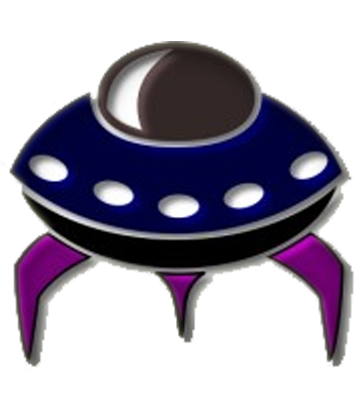
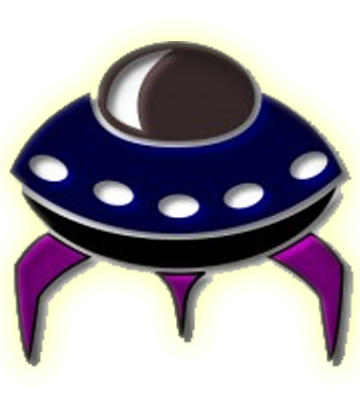
change image of SpaceShip

Changed region(s): [[0.0, 0.06, 1.0, 0.93]]

diff --git a/f2/spw/SpaceShip.java b/f2/spw/SpaceShip.java
@@ -3,6 +3,10 @@ package f2.spw;
 import java.awt.Color;
 import java.awt.Graphics2D;
 
+// add import
+import java.awt.Toolkit;
+import java.awt.Image;
+
 public class SpaceShip extends Sprite{
 
 	int step = 8;
@@ -14,8 +18,10 @@ public class SpaceShip extends Sprite{
 
 	@Override
 	public void draw(Graphics2D g) {
-		g.setColor(Color.BLUE);
-		g.fillRect(x, y, width, height);
+		//g.setColor(Color.BLUE);
+		//g.fillRect(x, y, width, height);
+		Image img = Toolkit.getDefaultToolkit().getImage("SpaceShip.png");
+        g.drawImage(img, x, y, width, height, null);
 		
 	}
 
@@ -32,10 +38,7 @@ public class SpaceShip extends Sprite{
 			y = 0;
 		if(y > 600 - height)
 			y = 600 - height;
-	}
-		
-
-		
+	}	
 	}
 
 }

diff --git a/f2/spw/Main.java b/f2/spw/Main.java
@@ -11,7 +11,7 @@ public class Main {
 		frame.setSize(400, 650);
 		frame.getContentPane().setLayout(new BorderLayout());
 		
-		SpaceShip v = new SpaceShip(180, 550, 20, 20);
+		SpaceShip v = new SpaceShip(180, 550, 50, 50);
 		GamePanel gp = new GamePanel();
 		GameEngine engine = new GameEngine(gp, v);
 		frame.addKeyListener(engine);
